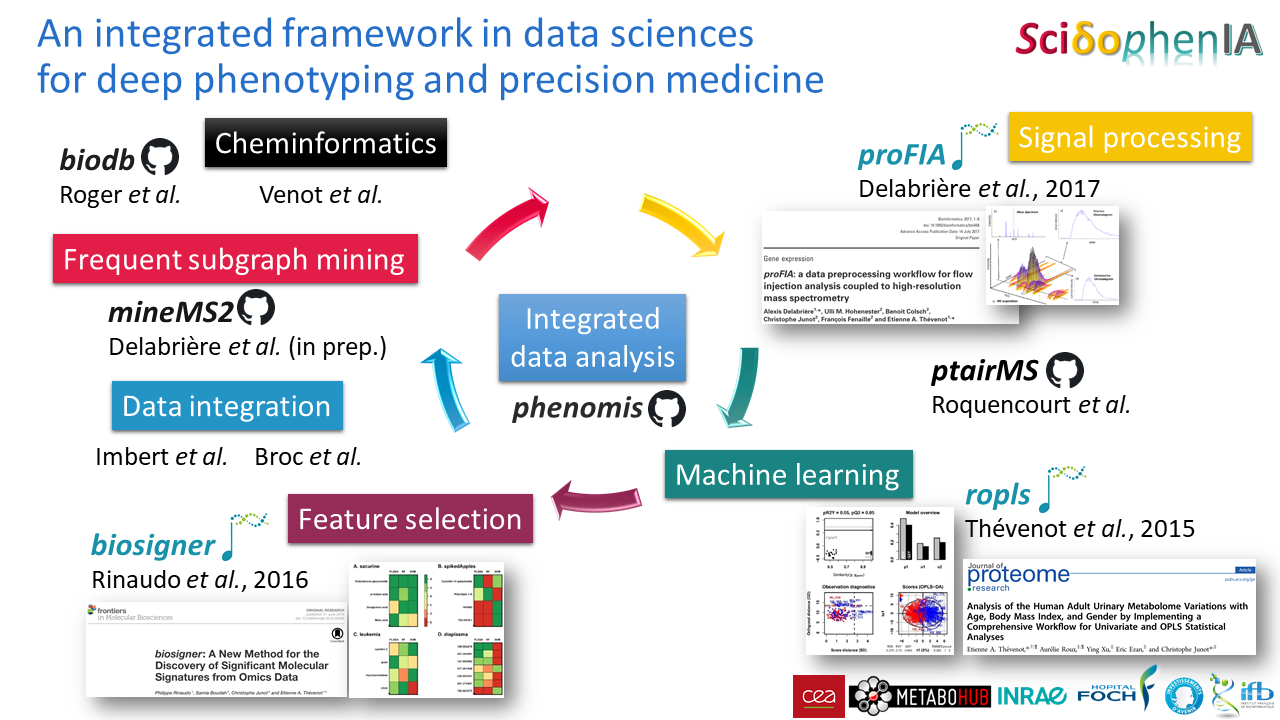
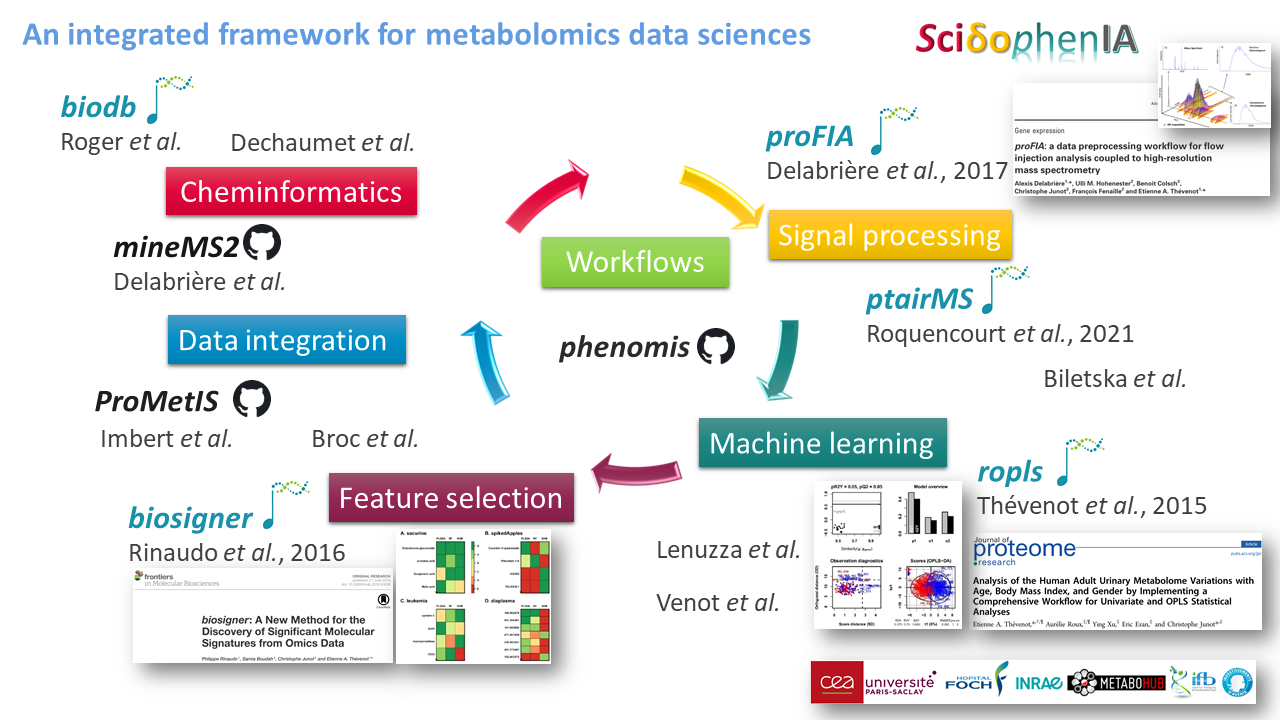
software and datasets update

diff --git a/software.html b/software.html
@@ -45,45 +45,47 @@
 
 <div id="content">
 
-<p><strong>R packages; <a href="http://bioconductor.org">Bioconductor</a> repository</strong></p>
+<p><strong>R packages</strong></p>
 
 <ul>
+    <li><p><strong>biodb</strong>: a library and a development framework for connecting to chemical and biological databases (by Pierrick Roger; <a href="https://doi.org/doi:10.18129/B9.bioc.biodb">DOI:10.18129/B9.bioc.biodb</a>)</p></li>
     <li><p><strong>biosigner</strong>: signature discovery from omics data (in collaboration with Philippe Rinaudo; <a href="https://doi.org/10.18129/B9.bioc.biosigner">DOI:10.18129/B9.bioc.biosigner</a>)</p></li>
-    <li><p><strong>proFIA</strong>: preprocessing of FIA-HRMS data (PhD from Alexis Delabriere; <a href="https://doi.org/10.18129/B9.bioc.proFIA">DOI:10.18129/B9.bioc.proFIA</a>)</p></li>
-	<li><p><strong>ptairMS</strong>: Pre-processing PTR-TOF-MS Data (<a href="https://doi.org/10.18129/B9.bioc.ptairMS">DOI:10.18129/B9.bioc.ptairMS</a>)</p></li>
+	<li><p><strong>phenomis</strong>: post-processing and univariate analysis of MS data (<a href="https://github.com/SciDoPhenIA/phenomis">https://github.com/SciDoPhenIA/phenomis</a>)</p></li>
+    <li><p><strong>proFIA</strong>: preprocessing of FIA-HRMS data (by Alexis Delabriere; <a href="https://doi.org/10.18129/B9.bioc.proFIA">DOI:10.18129/B9.bioc.proFIA</a>)</p></li>
+	<li><p><strong>ProMetIS</strong>: multi-omics phenotyping of the LAT and MX2 knockout mice (with Alyssa Imbert and the ProMetIS consortium; <a href="https://github.com/IFB-ElixirFr/ProMetIS">https://github.com/IFB-ElixirFr/ProMetIS</a>)</p></li>
+	<li><p><strong>ptairMS</strong>: Pre-processing PTR-TOF-MS Data (by Camille Roquencourt; <a href="https://doi.org/10.18129/B9.bioc.ptairMS">DOI:10.18129/B9.bioc.ptairMS</a>)</p></li>
 	<li><p><strong>ropls</strong>: PCA, PLS(-DA) and OPLS(-DA) for multivariate analysis and feature selection of omics data (<a href="https://doi.org/10.18129/B9.bioc.ropls">DOI:10.18129/B9.bioc.ropls</a>)</p></li>
+</ul>
 
+<p><strong>Datasets; <a href="http://www.ebi.ac.uk/metabolights/index">MetaboLights</a> repository</strong></p>
+
+<ul>
+    <li><p><a href="https://www.ebi.ac.uk/metabolights/MTBLS1903">MTBLS1903</a>: ProMetIS: deep phenotyping of knock-out mice by proteomics and metabolomics.</p></li>
+    <li><p><a href="https://www.ebi.ac.uk/metabolights/MTBLS404">MTBLS404</a>: Analysis of the human adult urinary metabolome variations with age, body mass index and gender by implementing a comprehensive workflow for univariate and OPLS statistical analyses ('Sacurine' data set).</p></li>
+    <li><p><a href="https://www.ebi.ac.uk/metabolights/MTBLS148">MTBLS148</a>: Impact of collection conditions on the metabolite content of human urine samples as analyzed by liquid chromatography coupled to mass spectrometry and nuclear magnetic resonance spectroscopy.</p></li>
 </ul>
 
 <p><strong>Galaxy modules; <a href="https://toolshed.g2.bx.psu.edu">Galaxy</a> toolshed</strong></p>
 
 <ul>
-<li><p>Batch Correction (in collaboration with Jean-Francois Martin, Melanie Petera, Marion Landi and Franck Giacomoni)</p></li>
-<li><p>Biosigner (in collaboration with Philippe Rinaudo)</p></li>
-<li><p>Heatmap</p></li>
-<li><p>Multivariate</p></li>
-<li><p>proFIA (in collaboration with Alexis Delabriere)</p></li>
-<li><p>Quality Metrics (in collaboration with Melanie Petera)</p></li>
-<li><p>Univariate (in collaboration with Marie Tremblay-Franco)
-
-</p></li>
+    <li><p>Batch Correction (in collaboration with Jean-Francois Martin, Melanie Petera, Marion Landi and Franck Giacomoni)</p></li>
+    <li><p>Biosigner (in collaboration with Philippe Rinaudo)</p></li>
+    <li><p>Heatmap</p></li>
+    <li><p>Multivariate</p></li>
+    <li><p>proFIA (in collaboration with Alexis Delabriere)</p></li>
+    <li><p>Quality Metrics (in collaboration with Melanie Petera)</p></li>
+    <li><p>Univariate (in collaboration with Marie Tremblay-Franco)</p></li>
 </ul>
 
 <p><strong>Workflows and histories; <a href="http://workflow4metabolomics.org/referenced_W4M_histories">Workflow4Metabolomics</a> e-infrastructure</strong></p>
 
 <ul>
-<li><p>W4M00001_Sacurine-statistics (<a href="http://dx.doi.org/10.15454/1.4811121736910142E12">DOI:10.15454/1.4811121736910142E12</a>)</p></li>
-<li><p>W4M00002_Sacurine-comprehensive (<a href="http://dx.doi.org/10.15454/1.481114233733302E12">DOI:10.15454/1.481114233733302E12</a>)</p></li>
-<li><p>W4M00003_Diaplasma (<a href="http://dx.doi.org/10.15454/1.4811165052113186E12">DOI:10.15454/1.4811165052113186E12</a>)</p></li>
+    <li><p>W4M00001_Sacurine-statistics (<a href="http://dx.doi.org/10.15454/1.4811121736910142E12">DOI:10.15454/1.4811121736910142E12</a>)</p></li>
+    <li><p>W4M00002_Sacurine-comprehensive (<a href="http://dx.doi.org/10.15454/1.481114233733302E12">DOI:10.15454/1.481114233733302E12</a>)</p></li>
+    <li><p>W4M00003_Diaplasma (<a href="http://dx.doi.org/10.15454/1.4811165052113186E12">DOI:10.15454/1.4811165052113186E12</a>)</p></li>
 </ul>
 
-<p><strong>Data sets; <a href="http://www.ebi.ac.uk/metabolights/index">MetaboLights</a> repository</strong></p>
 
-<ul>
-<li><p><a href="https://www.ebi.ac.uk/metabolights/MTBLS148">MTBLS148</a>: Impact of collection conditions on the metabolite content of human urine samples as analyzed by liquid chromatography coupled to mass spectrometry and nuclear magnetic resonance spectroscopy.</p></li>
-<li><p><a href="https://www.ebi.ac.uk/metabolights/MTBLS404">MTBLS404</a>: Analysis of the human adult urinary metabolome variations with age, body mass index and gender by implementing a comprehensive workflow for univariate and OPLS statistical analyses ('Sacurine' data set).</p></li>
-<li><p><a href="https://www.ebi.ac.uk/metabolights/MTBLS1903">MTBLS1903</a>: ProMetIS: deep phenotyping of knock-out mice by proteomics and metabolomics.</p></li>
-</ul>
 
 </div>
 </div>

diff --git a/index.html b/index.html
@@ -45,8 +45,10 @@
 
 <li><a
 href="https://www.ebi.ac.uk/metabolights/MTBLS1903/descriptors">ProMetIS</a> dataset available on MetaboLights</p></li>
-<li><a href="https://doi.org/10.18129/B9.bioc.ptairMS">ptairMS</a> package now on Bioconductor</li>
 <li><a href="https://github.com/IFB-ElixirFr/ProMetIS">ProMetIS</a> package now on GitHub</li>
+<li><a href="https://doi.org/10.18129/B9.bioc.ptairMS">ptairMS</a> package now on Bioconductor</li>
+<li><a href="https://doi.org/doi:10.18129/B9.bioc.biodb">biodb</a> package now on Bioconductor</li>
+
 <li><a
 href="https://odf.u-paris.fr/fr/offre-de-formation/diplome-d-universite-du-diu-1/sciences-technologies-sante-STS/du-bioinformatique-integrative-dubii-DUSBIIN_118/du-bioinformatique-integrative-dubii-fp-campus-gm-DUSBII_118.html">Course on Integrative Bioinformatics</a>, Paris University (31st March 2021)</p></li>
 <li><a href="https://doi.org/10.1016/j.ebiom.2020.103154">Grassin-Delyle, Roquencourt et al. (2021).</a> Metabolomics of exhaled breath in critically ill COVID-19 patients: A pilot study, <em>EBioMedicine</em>, <strong>63</strong>:103154</li>
@@ -126,7 +128,7 @@ width="660" height="372" /></p>
 <div id="footer">
 
     <div class="fotext">
-        <p><a href="copyright">Web design copyright: 2006</a>. Last update 2021-04-27.</p>
+        <p><a href="copyright">Web design copyright: 2006</a>. Last update 2021-06-13.</p>
     </div>
     
 </div>
